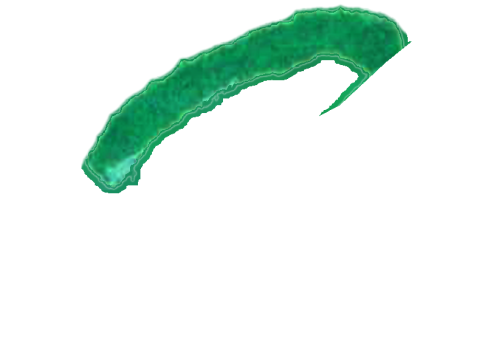
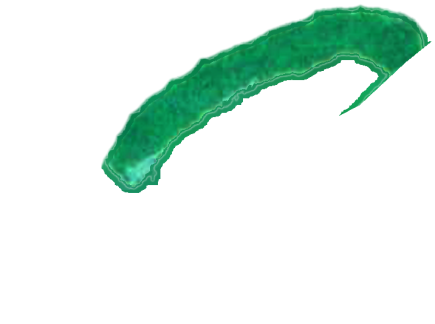
Conejito del Diario v3: capas ojo_abierto/ojo_cerrado, pivotes de orejas de Teatro, sin rellenos agregados, inclinación hasta ~18°

Changed region(s): [[0.1494, 0.0, 0.9862, 0.6173]]

diff --git a/src/simtracking.js b/src/simtracking.js
@@ -24,11 +24,11 @@ export function simTargets(timeSec) {
   let roll = 0;
   let yaw = 0;
   // 4–10 s: inclinación a izquierda y derecha (rebote de orejas)
-  if (t > 4 && t < 10) roll = 0.95 * Math.sin((t - 4) * 1.6) * Math.min(1, (t - 4) / 0.6, (10 - t) / 0.6);
+  if (t > 4 && t < 10) roll = 1.0 * Math.sin((t - 4) * 1.6) * Math.min(1, (t - 4) / 0.6, (10 - t) / 0.6);
   if (t > 4 && t < 10) yaw = 0.3 * Math.sin((t - 4) * 1.6 + 0.8);
   // 10–16 s: giro a izquierda y derecha
   if (t > 10 && t < 16) yaw = 0.8 * Math.sin((t - 10) * 1.5) * Math.min(1, (t - 10) / 0.6, (16 - t) / 0.6);
-  if (t > 10 && t < 16) roll = 0.45 * Math.sin((t - 10) * 1.5 + 1) * Math.min(1, (t - 10) / 0.6, (16 - t) / 0.6);
+  if (t > 10 && t < 16) roll = 0.6 * Math.sin((t - 10) * 1.5 + 1) * Math.min(1, (t - 10) / 0.6, (16 - t) / 0.6);
   const pitch = 0.2 * Math.sin(t * 0.9);
   const raw = OPEN + (CLOSED - OPEN) * blink;
   return {

diff --git a/tools/conejito/build_conejito.py b/tools/conejito/build_conejito.py
@@ -1,4 +1,4 @@
-"""Arma el Conejito del Diario de dibujo a partir del PSD por capas (12 capas, 2900x2400).
+"""Arma el Conejito del Diario de dibujo a partir del PSD por capas (v3: 6 capas, 2900x2400, sin máscaras).
 
 Solo se usan los píxeles de sus capas: se recortan y se reducen de tamaño; nada se
 dibuja ni se deforma. Escribe public/conejito/*.png y public/conejito/rig.json.
@@ -6,21 +6,18 @@ dibuja ni se deforma. Escribe public/conejito/*.png y public/conejito/rig.json.
     python3 tools/conejito/build_conejito.py [carpeta/capas]
 
 Lee los PNG de capas (mismo lienzo de 2900x2400, alineados) que salen de conejito_capas.psd; ni el PSD
-(40 MB) ni los PNG grandes se guardan en el repositorio. Por defecto: /workspace/diario-redes/video/conejito/capas
+(30 MB) ni los PNG grandes se guardan en el repositorio. Por defecto: /workspace/diario-redes/video/conejito/capas
 (o CONEJITO_CAPAS).
 
 Capas del PSD (de abajo hacia arriba) -> piezas del rig:
   cuerpo (con la cola)       -> body       quieto (respira con el cuerpo)
   cabeza                     -> head       gira / se inclina con la cabeza
   oreja_izq, oreja_der       -> ear_l/_r   con la cabeza + resorte con rebote
-  ojo_izq_abierto|cerrado    -> eye_r      parpadeo: cambio de golpe abierto/cerrado (único ojo)
+  ojo_abierto|cerrado    -> eye_r      parpadeo: cambio de golpe abierto/cerrado (único ojo)
 
-Sin boca, sin cejas y con UN solo ojo (a pedido de Katherine): no se usan las capas cejas, boca_* ni ojo_der_*.
-El ojo que queda es 'ojo_izq': coincide con el único ojo del dibujo original (ref_conejo.png), que es el
-punto de la cara; el otro ojo lo agregó el diseño de capas.
+Sin boca, sin cejas y con UN solo ojo (a pedido de Katherine): es el ojo del dibujo original (ref_conejo.png).
 
-Los lados siguen la posición en pantalla (l = izquierda de la pantalla). En el PSD los
-ojos se llaman al revés que las orejas ('ojo_izq' está a la derecha del par de ojos); el ojo único va como eye_r.
+Los lados siguen la posición en pantalla (l = izquierda de la pantalla); el ojo único va como eye_r.
 """
 import hashlib
 import json
@@ -39,8 +36,7 @@ os.makedirs(OUT, exist_ok=True)
 CAPAS = (sys.argv[1] if len(sys.argv) > 1 else
          os.environ.get('CONEJITO_CAPAS', '/workspace/diario-redes/video/conejito/capas'))
 
-# Las capas del PSD llevan la transparencia en una máscara de capa; el importador de PSD de la app
-# (ag-psd) no la aplica. Por eso se leen los PNG de capas/ (mismo lienzo, máscara ya aplicada).
+# Se leen los PNG de capas/ (mismo lienzo, alineados), iguales a las capas del PSD.
 W, H = 2900, 2400
 
 
@@ -54,30 +50,11 @@ def full(path):
     return a
 
 
-NAMES = ['cuerpo', 'cabeza', 'oreja_izq', 'oreja_der', 'ojo_izq_abierto', 'ojo_izq_cerrado']
+NAMES = ['cuerpo', 'cabeza', 'oreja_izq', 'oreja_der', 'ojo_abierto', 'ojo_cerrado']
 IMG = {n: full(os.path.join(CAPAS, n + '.png')) for n in NAMES}
 
-# Huecos del relleno blanco. El dibujo trae el blanco de cada pieza como un polígono: en reposo encajan, pero
-# al inclinar la cabeza o mover las orejas se abren rendijas y se ve el fondo. Se tapan con el mismo blanco,
-# siempre por debajo del dibujo y sin tocar sus contornos:
-#   1. cuña de fondo entre la cabeza y la oreja chica (ya hay un hueco de ~100 px en reposo): va en la
-#      capa de la cabeza;
-#   2. 'base' blanca quieta bajo el cuerpo: la silueta de todas las capas, encogida 15 px hacia adentro
-#      (así queda toda tapada por el dibujo en reposo y no deja halos en los bordes).
-union = np.maximum.reduce([IMG[n][..., 3] for n in ('cuerpo', 'cabeza', 'oreja_izq', 'oreja_der')]) > 0.5
-closed = cv2.morphologyEx(union.astype(np.uint8), cv2.MORPH_CLOSE, cv2.getStructuringElement(cv2.MORPH_ELLIPSE, (151, 151))) > 0
-box = np.zeros_like(union)
-box[650:900, 700:1100] = True
-plug = closed & ~union & box
-plug = (cv2.dilate(plug.astype(np.uint8), cv2.getStructuringElement(cv2.MORPH_ELLIPSE, (13, 13))) > 0) & closed & box   # y su costura
-print('cuña tapada (px):', int(plug.sum()))
-plug_img = np.zeros((H, W, 4), np.float32)
-plug_img[plug] = 1.0
-IMG['cabeza'] = IMG['cabeza'] + plug_img * (1 - IMG['cabeza'][..., 3:])
-base = cv2.erode(union.astype(np.uint8), cv2.getStructuringElement(cv2.MORPH_ELLIPSE, (31, 31))) > 0
-base_img = np.zeros((H, W, 4), np.float32)
-base_img[base] = 1.0
-IMG['cuerpo'] = IMG['cuerpo'] + base_img * (1 - IMG['cuerpo'][..., 3:])
+# v3: el relleno blanco ya está extendido bajo la base de las orejas (sin muesca hasta ±30°) y sin halo a la
+# izquierda de la cabeza, así que no se agrega ningún relleno: solo se usan los píxeles de las capas.
 
 # ---- rig 600x600: el conejito es ancho, 500 unidades de ancho, centrado
 BX0, BY0, BX1, BY1 = 214, 402, 2684, 1999      # encuadre fijo (todas las capas visibles)
@@ -119,8 +96,8 @@ def center(img):
 # pivotes (en píxeles del PSD)
 NECK = rig(800, 1450)        # eje de giro de la cabeza (bajo la mejilla): así la cuña de arriba casi no se abre
 FEET = rig(1450, 1999)       # base del cuerpo: respira y se inclina desde aquí
-EAR_L_BASE = rig(800, 720)   # oreja chica (izquierda de la pantalla): pie de la media luna
-EAR_R_BASE = rig(1220, 940)  # oreja grande: entre sus dos pies
+EAR_L_BASE = rig(790, 700)   # oreja chica (izquierda de la pantalla): pivote que diseñó Teatro
+EAR_R_BASE = rig(1215, 925)  # oreja grande: pivote que diseñó Teatro
 EAR_MOTION = {'sway': 3, 'speed': 0.4, 'stiffness': 110, 'damping': 8, 'gravity': 0, 'follow': 1.4, 'limit': 14}
 
 parts = []
@@ -140,8 +117,8 @@ part('ear_l', 'oreja_izq', 'ear', 'head', EAR_L_BASE, parallax=[0, 0],
      motion=dict(EAR_MOTION, phase=0), earKick=1)
 part('ear_r', 'oreja_der', 'ear', 'head', EAR_R_BASE, parallax=[0, 0],
      motion=dict(EAR_MOTION, phase=0.25, speed=0.36), earKick=1)
-# un solo ojo: el del dibujo original ('ojo_izq')
-EYE = {'r': ('ojo_izq_abierto', 'ojo_izq_cerrado')}
+# un solo ojo: el del dibujo original
+EYE = {'r': ('ojo_abierto', 'ojo_cerrado')}
 eyes = {}
 for side, (op, cl) in EYE.items():
     eo = save(f'eye_{side}_open.png', IMG[op])
@@ -152,7 +129,7 @@ for side, (op, cl) in EYE.items():
     eyes[side] = {'center': c, 'styles': {'A': {'full': eo}, 'B': {'full': eo}}, 'closed': ec}
 
 comp = np.zeros((H, W, 4), np.float32)
-for n in ['cuerpo', 'cabeza', 'oreja_izq', 'oreja_der', 'ojo_izq_abierto']:
+for n in ['cuerpo', 'cabeza', 'oreja_izq', 'oreja_der', 'ojo_abierto']:
     comp = IMG[n] + comp * (1 - IMG[n][..., 3:])
 cx0, cy0, cx1, cy1 = 150, 330, 1350, 1530
 th = cv2.resize(comp[cy0:cy1, cx0:cx1], (64, 64), interpolation=cv2.INTER_AREA)
@@ -164,11 +141,11 @@ manifest = {
     'name': 'Conejito del Diario',
     'rigSize': [RIG, RIG],
     'pxPerUnit': PPU,
-    'source': 'conejito_capas.psd (12 capas)',
+    'source': 'conejito_capas.psd (v3, 6 capas)',
     'id': 'conejito',
     'headMotion': 0.8,
     'headRigid': True,
-    'headRoll': 0.6,
+    'headRoll': 1.8,   # inclinación máx. ~18° (10° de cámara × 1.8)
     'paperEdge': False,
     'squashBlink': False,
     'accessories': [],

diff --git a/README.md b/README.md
@@ -140,7 +140,7 @@ El conejito verde del Diario de dibujo (capas de Katherine). Tiene **un solo ojo
 - **Cabeza** gira e inclina con la cámara (eje bajo la mejilla). **Orejas** van con la cabeza y rebotan con resorte cuando la cabeza se mueve rápido (`earKick` en el `rig.json`).
 - **Parpadeo**: el único ojo (`ojo_izq`, el del dibujo original) cambia de golpe entre `ojo_izq_abierto` y `ojo_izq_cerrado`.
 - Sin boca ni cejas: solo parpadea, mueve las orejas y sigue la cabeza. El cuerpo respira solo. La cola es parte de `cuerpo`, así que no se mueve aparte.
-- Armado con `python3 tools/conejito/build_conejito.py [carpeta/capas]` (lee los PNG de capas con la máscara ya aplicada). Tapa con el mismo blanco las rendijas del relleno que se abrían al inclinar la cabeza; es lo único que se agrega al dibujo.
+- Versión v3 del dibujo: 6 capas (`cuerpo`, `cabeza`, `oreja_izq`, `oreja_der`, `ojo_abierto`, `ojo_cerrado`) sin máscaras; el importador de PSD de la app lo lee directo. Armado con `python3 tools/conejito/build_conejito.py [carpeta/capas]` (lee los PNG de capas; no se agrega ni se retoca nada). La cabeza se inclina hasta ~18° (`headRoll` 1.8).
 
 **Probar sin cámara:** `/?char=conejito&sim=1` entra en modo demo y reproduce un guion de 20 s con parpadeos, inclinación a los dos lados, giro y movimiento combinado (`src/simtracking.js`). También se puede forzar cualquier valor desde la consola con `__bunny.setDebugTargets({ roll: 0.8 })`.
 
